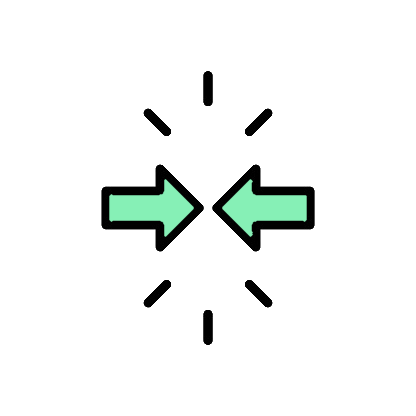
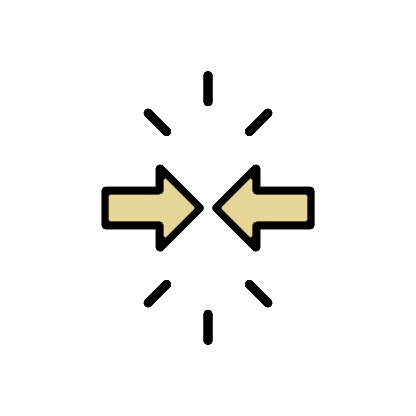
+ margin (left/right) for buttons * welcome text * design (colors) * image based on new design * transition for npcImage

Changed region(s): [[0.5312, 0.4062, 0.75, 0.5938], [0.25, 0.4062, 0.4688, 0.5938]]

diff --git a/public/stylesheets/style.css b/public/stylesheets/style.css
@@ -10,26 +10,26 @@
 html {
   height: auto;
   min-height: 100%;
-  background-color: #CDEEDC;
+  background-color: #FCFAF2;
 }
 
 body {
   font: 1rem "Roboto", Helvetica, Arial, sans-serif;
-  color: #333;
+  color: #1C1C1B;
   background-color: inherit;
   height: auto;
   min-height: 100%;
 }
 
 header {
-  background-color: #A0BAAC;
+  color: #FCFAF2;
+  background-color: #545351;
   padding: 10px;
   margin-bottom: 15px;
 }
 
 h1 {
   margin: 0;
-  color: #000;
   width: 100%;
 }
 
@@ -46,14 +46,19 @@ h3 {
 input {
   height: 1.5rem;
   width: 12rem;
-  color: #333;
-  background-color: inherit;
+  color: #1C1C1B;
+  background-color: #FCFAF2;
   border-top: 0;
   border-right: 0;
   border-left: 0;
-  border-color: #2F5440;
+  border-color: #545351;
   border-radius: 0;
   border-width: 1px;
+}
+
+input:focus {
+  background-color: #E0DFD7;
+  outline: none;
 }
 
 label {
@@ -64,11 +69,12 @@ label {
 button {
   height: 1.5rem;
   width: 12rem;
-  color: #333;
-  background-color: #B6D4C3;
-  border: 1px solid #2F5440;
+  color: #1C1C1B;
+  background-color: #E0DFD7;
+  border: 1px solid #545351;
   border-radius: 3px;
   cursor: pointer;
+  margin: 0 5px;
 }
 
 ul {
@@ -101,7 +107,7 @@ td {
 }
 
 .rules {
-  border: 1px solid #2F5440;
+  border: 1px solid #545351;
   border-radius: 10px;
   padding: 5px;
 }
@@ -160,15 +166,15 @@ td {
 }
 
 .win {
-  background-color: #7AF06C;
+  background-color: #45FF7A;
 }
 
 .lose {
-  background-color: #F06775;
+  background-color: #FF4241;
 }
 
 .draw {
-  background-color: #F0B86F;
+  background-color: #FFAA2B;
 }
 
 .overflow {

diff --git a/public/index.html b/public/index.html
@@ -22,10 +22,14 @@
     <div class="col-xl-8 col-lg-8 col-md-12 col-sm-12 col-xs-12 padded">
       <div id="rules">
         <h2>Willkommen zu Schere-Stein-Papier.</h2>
-        <p>Hier können Sie gegen Ihren Computer Schere-Stein-Papier spielen.
-          <br />Der Computer wählt dabei zufällig ein Symbol aus.
-          <br />Für jeden Sieg gibt es Punkte. Drücken Sie auf "Spiel Starten", um ein neues Spiel zu beginnen.
+        <p>Hier können Sie gegen Ihren Computer Schere-Stein-Papier spielen.</p>
+        <p>Vor dem Spiel können Sie einen Namen wählen, der als Ihr Spielername angezeigt werden soll.
+          <br />Drücken Sie auf <b><i>"Spiel Starten"</i></b>, um ein neues Spiel zu beginnen.
+          <br />Dann haben Sie die Möglichkeit auf eines der Symbole (<b><i>Schere, Stein, Papier</i></b>) zu drücken.
+          <br />Der Computer wählt zufällig ein Symbol aus und der Sieger wird ermittelt.
+          <br />Für jeden Sieg gibt es drei Punkte. Bei einem Unentschieden gibt es einen Punkt für beide Spieler. 
         </p>
+        <p class="game" hidden>Um die Punkte zurückzusetzen, klicken Sie auf <b><i>"Neustarten"</i></b>. Falls gewünscht können Sie dabei auch Ihren Spielernamen ändern.</p>
       </div>
       <div id="basics">
         <span id="nametag">

diff --git a/public/javascripts/game.js b/public/javascripts/game.js
@@ -46,9 +46,10 @@ function Game() {
 
     //starts the game, initiates buttons
     function start() {
-        document.getElementsByClassName('game')[0].hidden = false;
-        document.getElementsByClassName('game')[1].hidden = false;
-        document.getElementsByClassName('game')[2].hidden = false;
+        document.getElementsByClassName('game')[0].hidden = false; //restart-text 
+        document.getElementsByClassName('game')[1].hidden = false; //spacer
+        document.getElementsByClassName('game')[2].hidden = false; //game
+        document.getElementsByClassName('game')[3].hidden = false; //points
         start_button.hidden = true;
         restart_button.hidden = false;
 
@@ -80,11 +81,13 @@ function Game() {
         }
         lastMatch_button.onclick = function(){
             showLastMatch()
+            lastMatch_button.hidden = true;
         }
     }
 
     //displays outcome of the recent round
     function output(npcSymbol) {
+        npcImage.style.transition = 'transform 0.5s ease-in-out'
         npcImage.innerHTML = '<div class="background ' + outcome.com + '"><img class="btn_logo no_cursor" src="' + npcSymbol.img + '" /></div>'
         npcImage.style.transform = 'scale(1)'
         countPoints(points.player, points.com);
